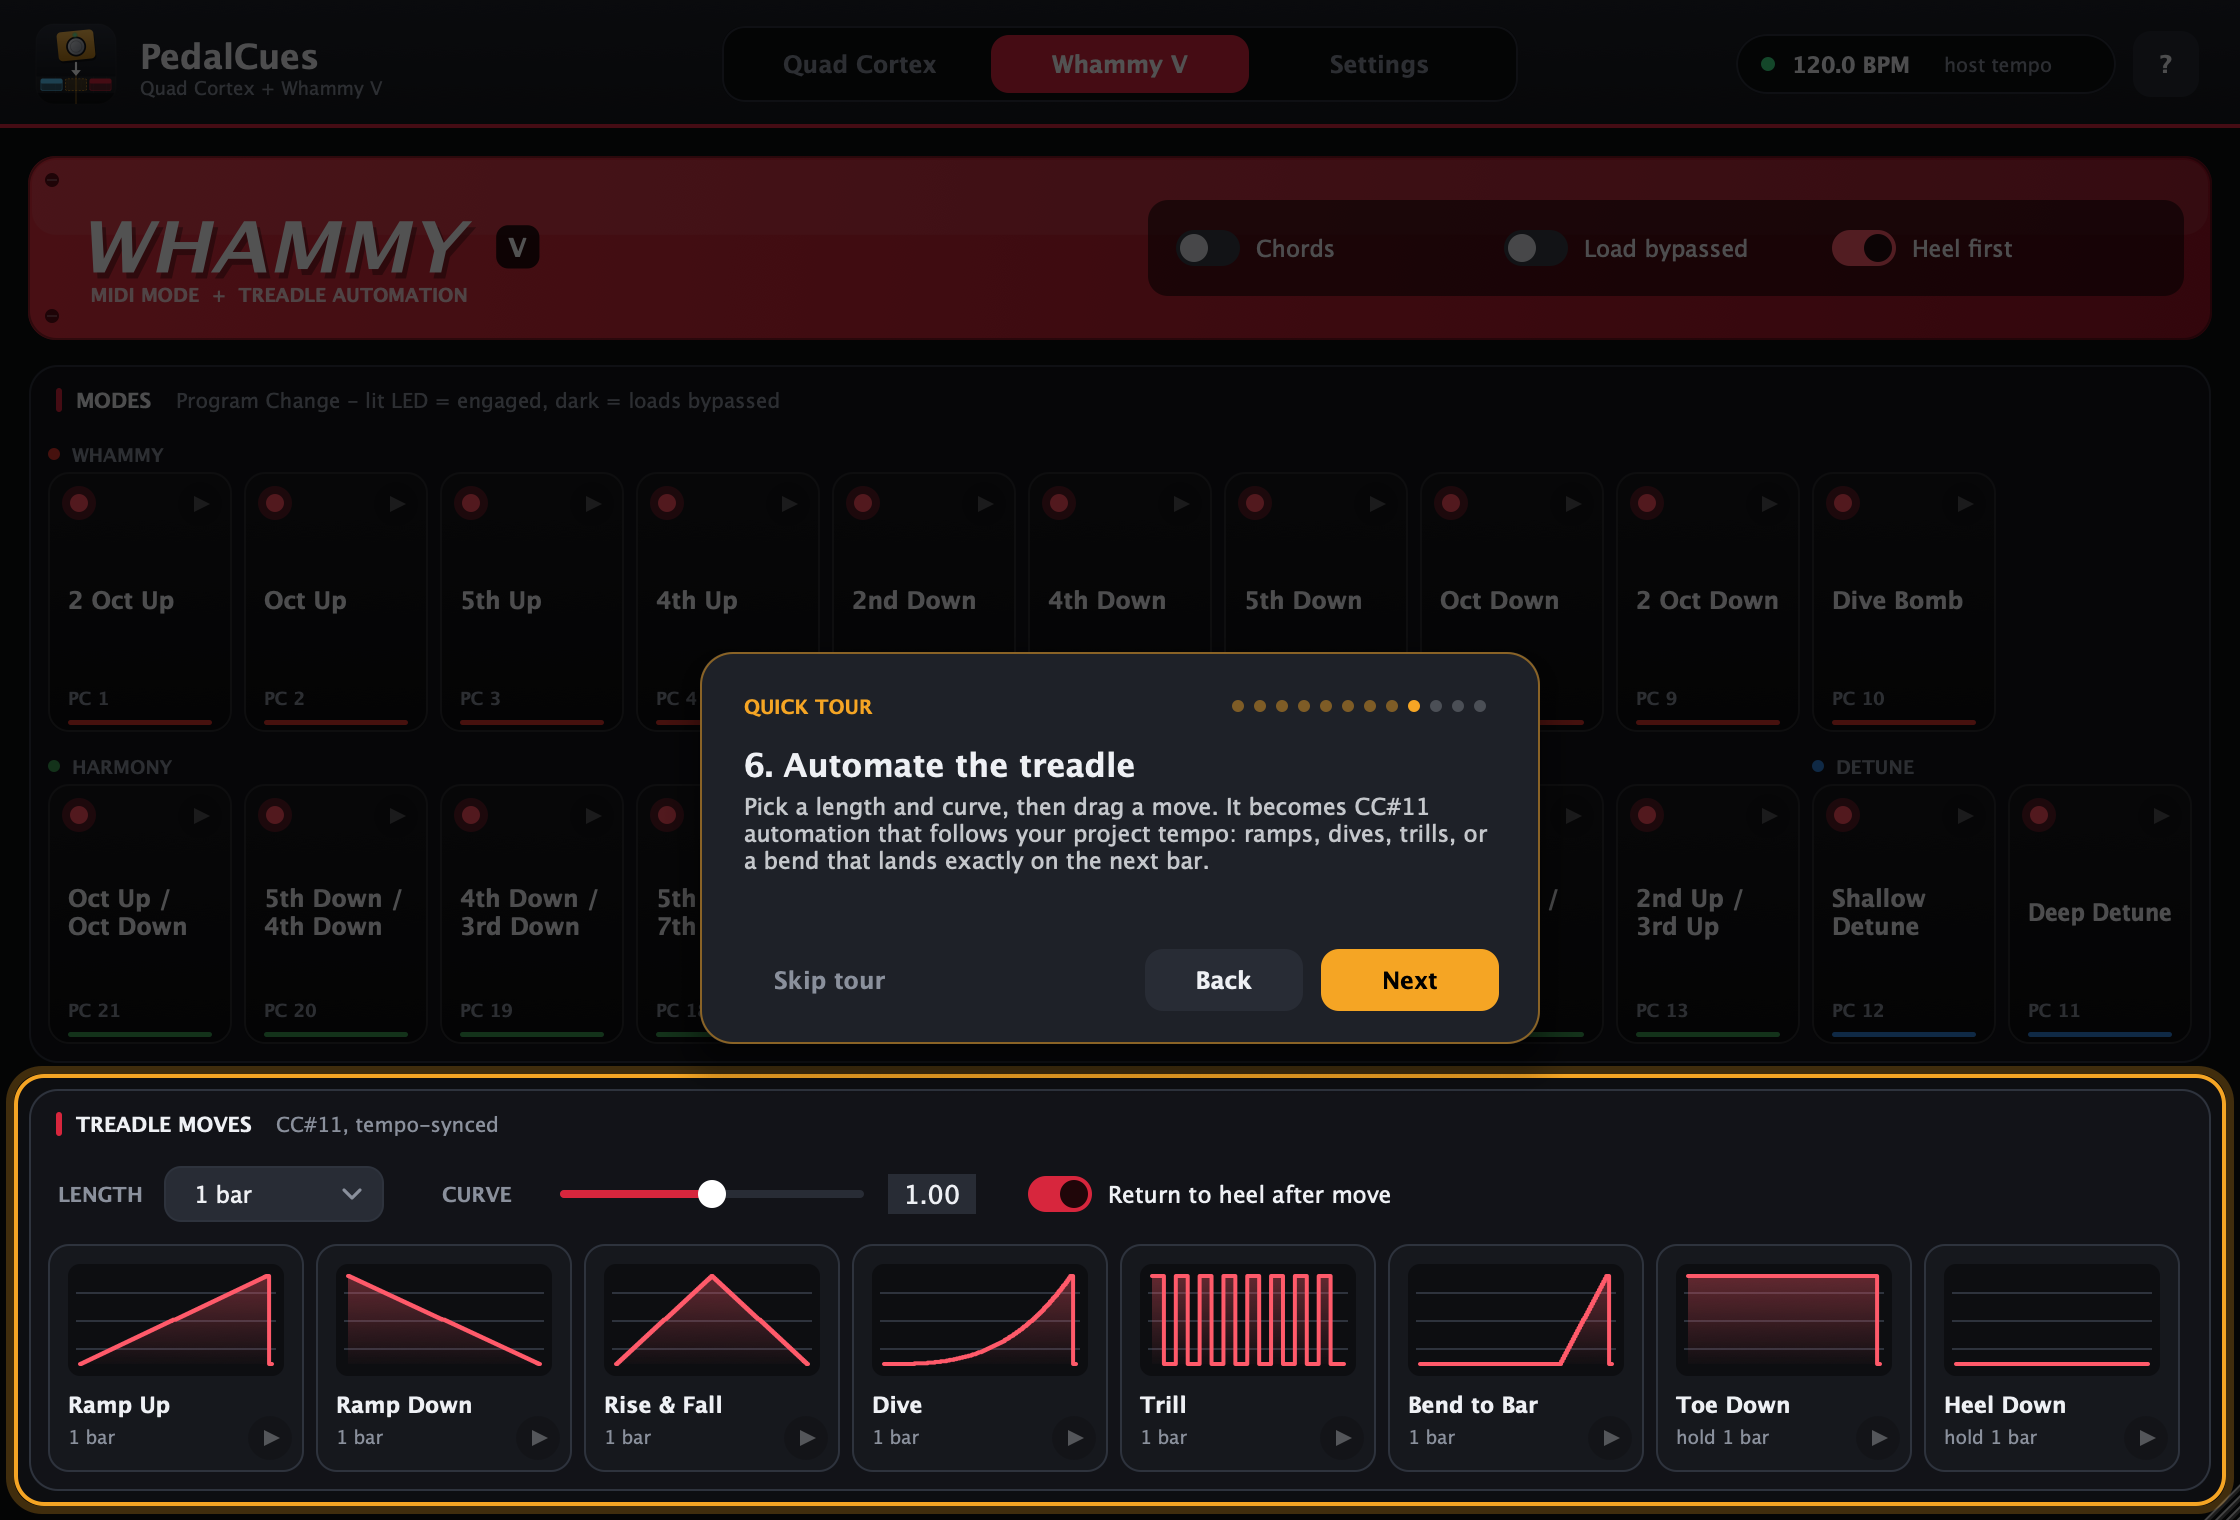
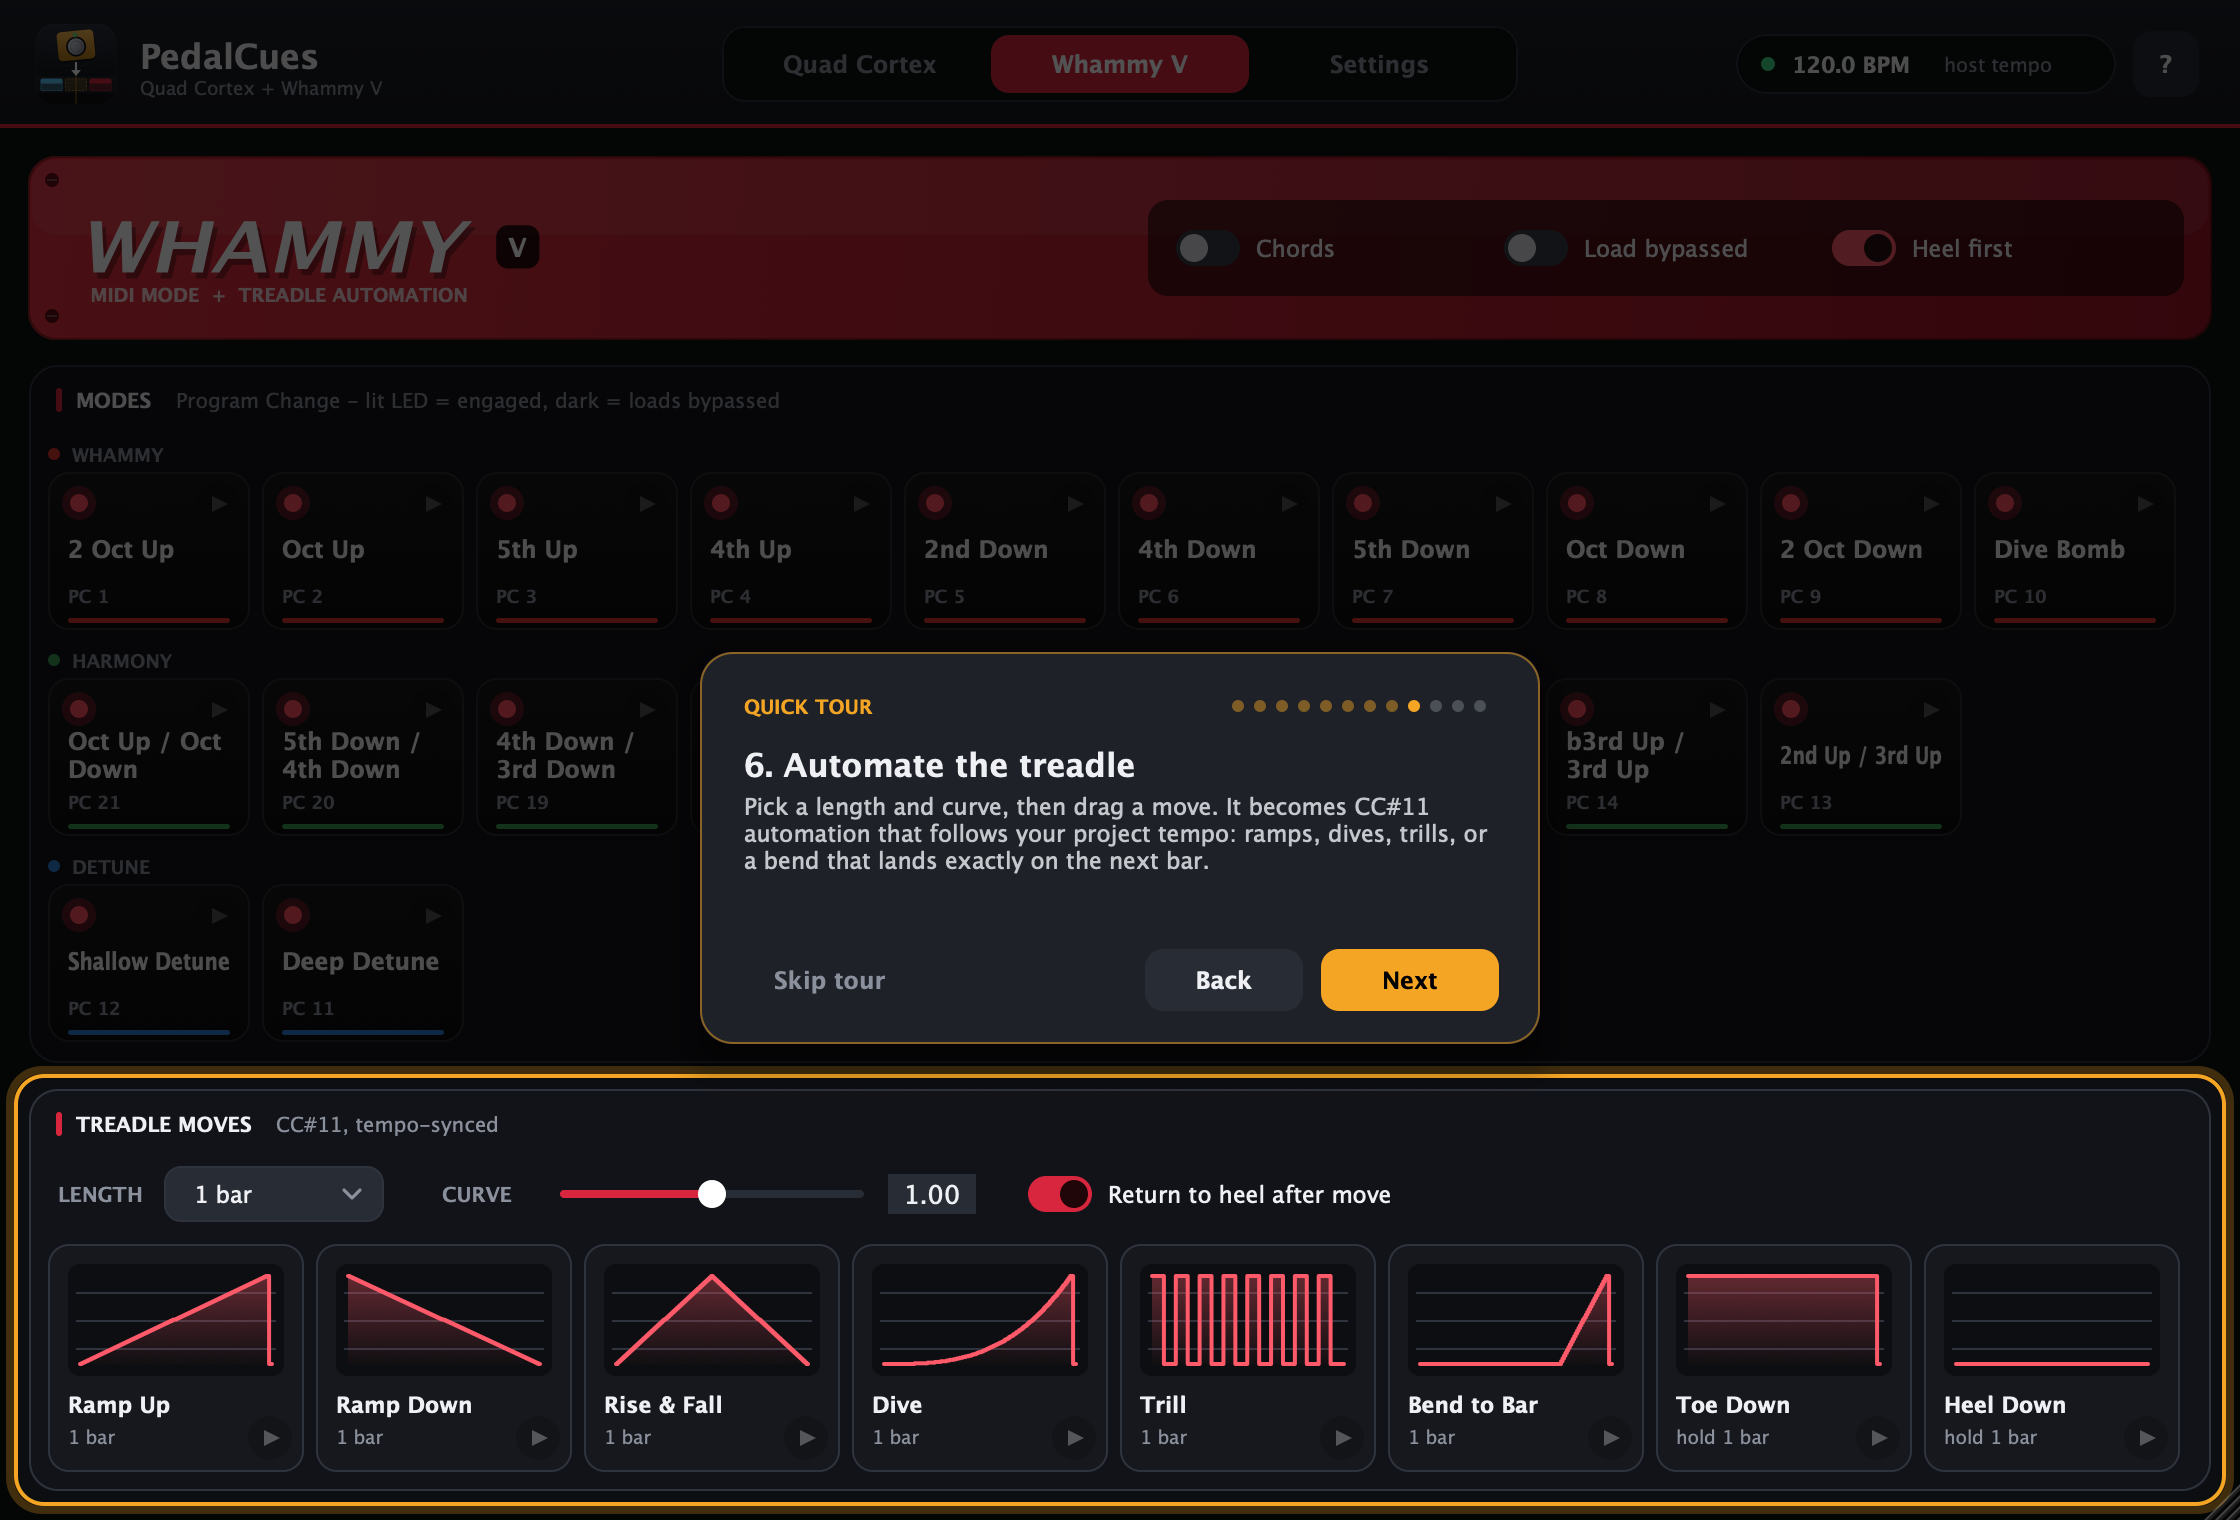
v0.3.1: Detune modes on their own row

diff --git a/Source/WhammyPage.cpp b/Source/WhammyPage.cpp
@@ -242,12 +242,14 @@ public:
 
         // Modes, as on the pedal panel (manual p.10): each Whammy mode sits above the Harmony mode on the
         // same panel row (2 Oct Up over Oct Down/Oct Up ... 2 Oct Down over 2nd Up/3rd Up), Dive Bomb has
-        // no partner, and Detune (Shallow, Deep) closes the second row.
+        // no partner, and Detune (Shallow, Deep) gets its own row below.
         auto m = modesSection.contentArea().expanded (3, 0);
-        constexpr int captionH = 18, rowGap = 8, cols = 11;
-        const auto rowH = (m.getHeight() - 2 * captionH - rowGap) / 2;
+        constexpr int captionH = 18, rowGap = 6, cols = 10;
+        const auto rowH = (m.getHeight() - 3 * captionH - 2 * rowGap) / 3;
         const auto unit = m.getWidth() / cols;
-        const auto top1 = m.getY() + captionH, top2 = top1 + rowH + rowGap + captionH;
+        const auto top1 = m.getY() + captionH;
+        const auto top2 = top1 + rowH + rowGap + captionH;
+        const auto top3 = top2 + rowH + rowGap + captionH;
 
         auto cell = [&] (int col, int top) { return juce::Rectangle<int> (m.getX() + col * unit, top - 3, unit, rowH + 6); };
         auto place = [&] (int index, int col, int top)
@@ -261,13 +263,13 @@ public:
             place (i, i, top1);                  // Whammy: 2 Oct Up .. Dive Bomb
         for (int i = 0; i < 9; ++i)
             place (20 - i, i, top2);             // Harmony: Oct Down/Oct Up .. 2nd Up/3rd Up
-        place (11, 9, top2);                     // Shallow Detune
-        place (10, 10, top2);                    // Deep Detune
+        place (11, 0, top3);                     // Shallow Detune
+        place (10, 1, top3);                     // Deep Detune
 
         groups.clear();
         groups.push_back ({ "WHAMMY", cues::whammy::colour (0), caption (0, 10, top1) });
         groups.push_back ({ "HARMONY", cues::whammy::colour (12), caption (0, 9, top2) });
-        groups.push_back ({ "DETUNE", cues::whammy::colour (10), caption (9, 2, top2) });
+        groups.push_back ({ "DETUNE", cues::whammy::colour (10), caption (0, 2, top3) });
 
         auto controlsRow = sweepsSection.contentArea().removeFromTop (34);
         sweepControls.setBounds (controlsRow);

diff --git a/Source/Tour.cpp b/Source/Tour.cpp
@@ -27,7 +27,7 @@ const std::vector<TourStep>& tourSteps()
           "Switch single footswitches on or off, open the tuner for a guitar change, or flip the QC between "
           "preset, scene and stomp mode. The switch in the Stomps header picks ON or OFF tiles." },
         { 1, { "wh.modes" }, "5. Whammy V modes",
-          "The Whammy tab works the same way, laid out like the pedal: Whammy modes on top, Harmony below, Detune at the end. Colours: "
+          "The Whammy tab works the same way, laid out like the pedal: Whammy modes on top, Harmony below, Detune on its own row. Colours: "
           "red Whammy, blue Detune, green Harmony. A dark LED means the mode loads bypassed." },
         { 1, { "wh.options" }, "Chords, bypass, heel first",
           "Chords uses the polyphonic program range. Load bypassed selects a mode without engaging it. Heel first "

diff --git a/docs/GUIDE.md b/docs/GUIDE.md
@@ -155,8 +155,8 @@ This example covers a song with a clean verse, a crunchy chorus and a Whammy sol
 
 The 21 Whammy V modes are laid out like the pedal's panel:
 - **Top row:** the **Whammy** modes, from 2 Oct Up to Dive Bomb.
-- **Bottom row:** each **Harmony** mode sits right below the Whammy mode that shares its row on the pedal (Oct Up/Oct Down below 2 Oct Up, and so on).
-- **End of the bottom row:** **Detune** Shallow and Deep, as at the bottom of the pedal.
+- **Middle row:** each **Harmony** mode sits right below the Whammy mode that shares its row on the pedal (Oct Up/Oct Down below 2 Oct Up, and so on).
+- **Bottom row:** **Detune** Shallow and Deep, on their own row as at the bottom of the pedal.
 
 Colours match the pedal: **Whammy** (red), **Harmony** (green), **Detune** (blue). Each tile shows its Program Change number from the DigiTech manual. Drag a mode tile to switch the Whammy.
 
